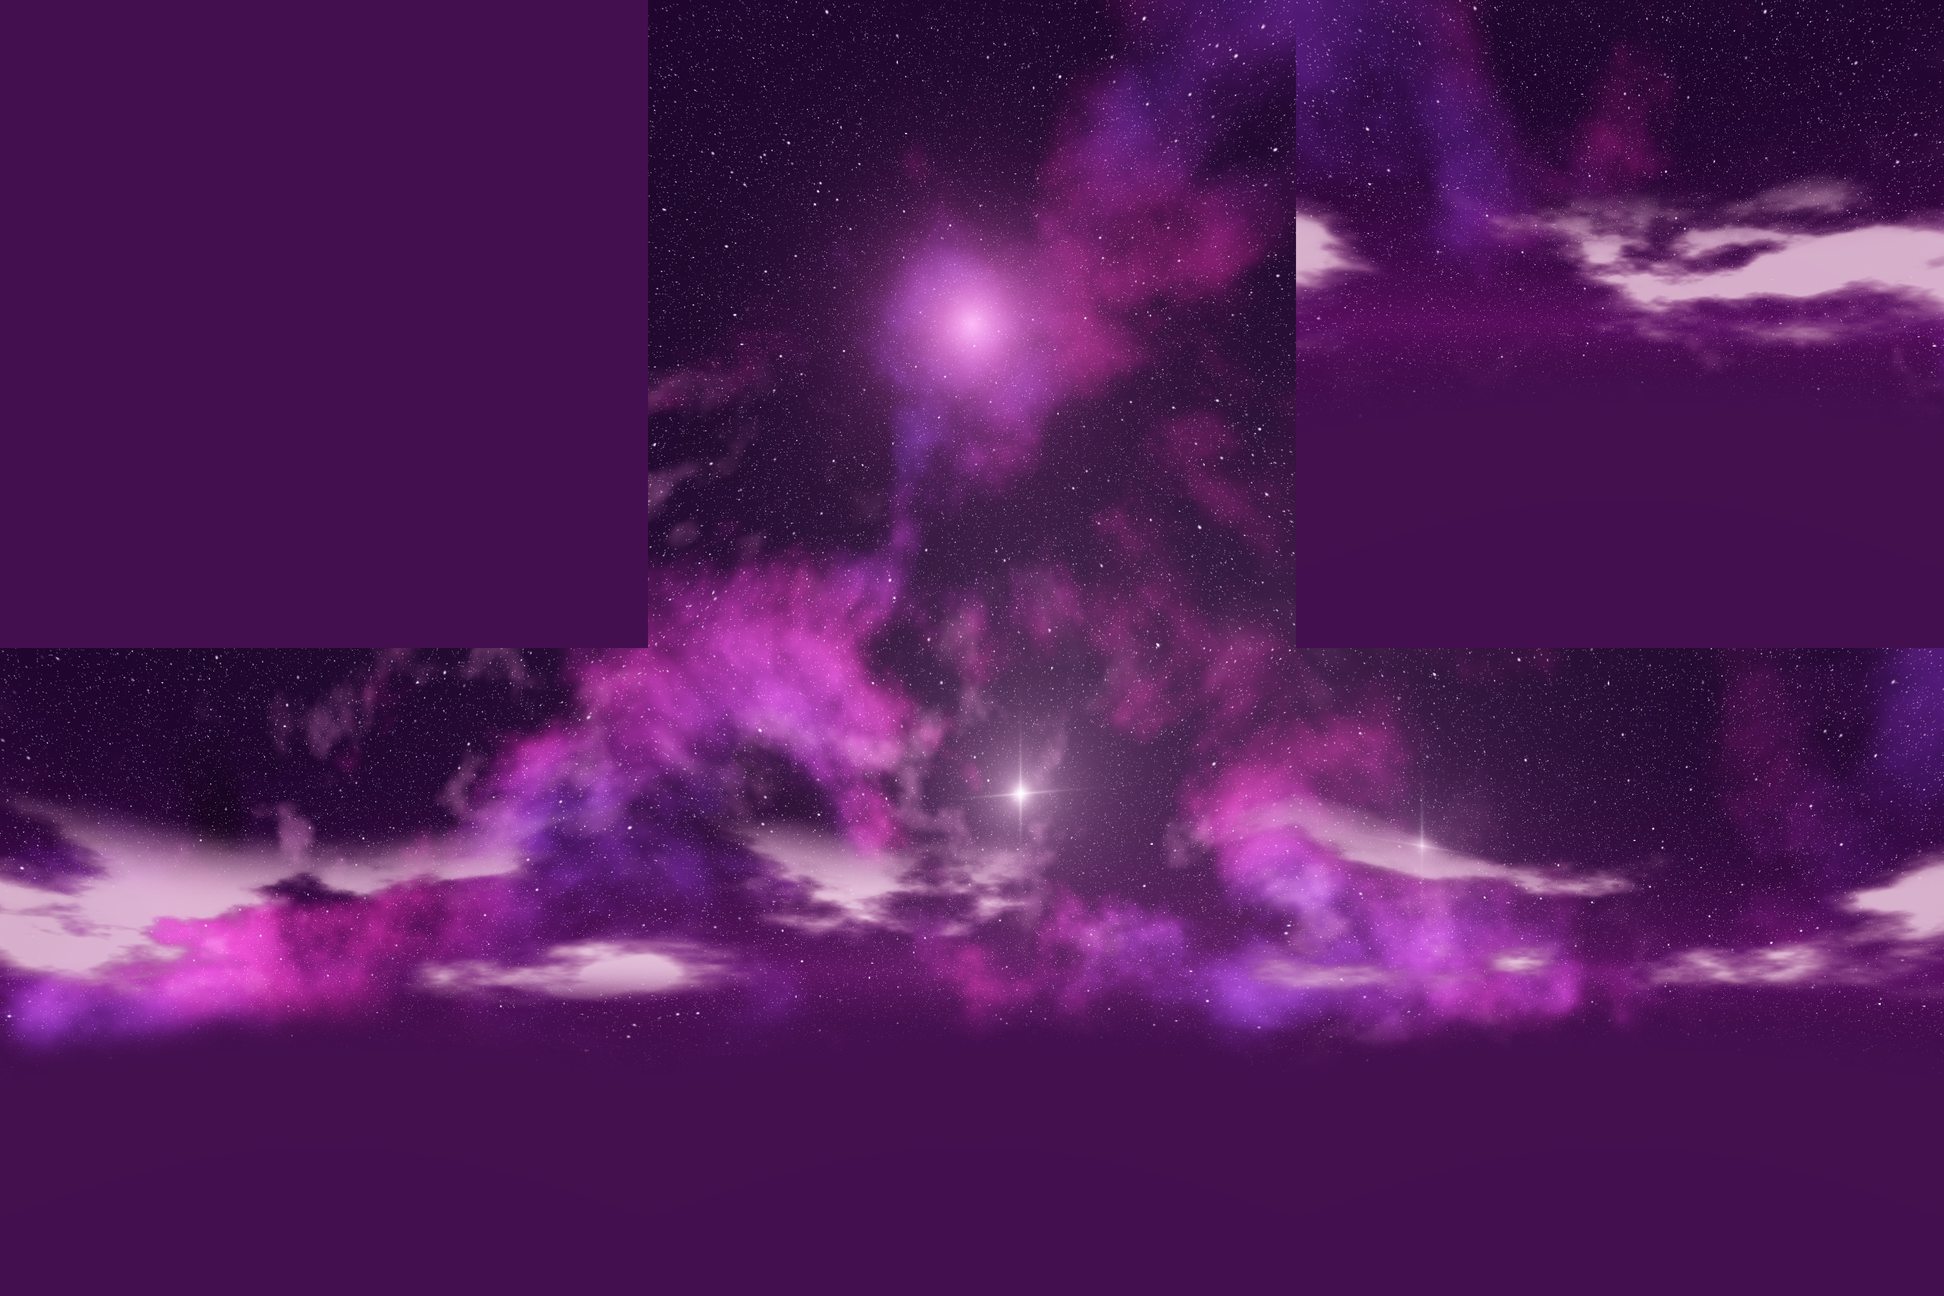
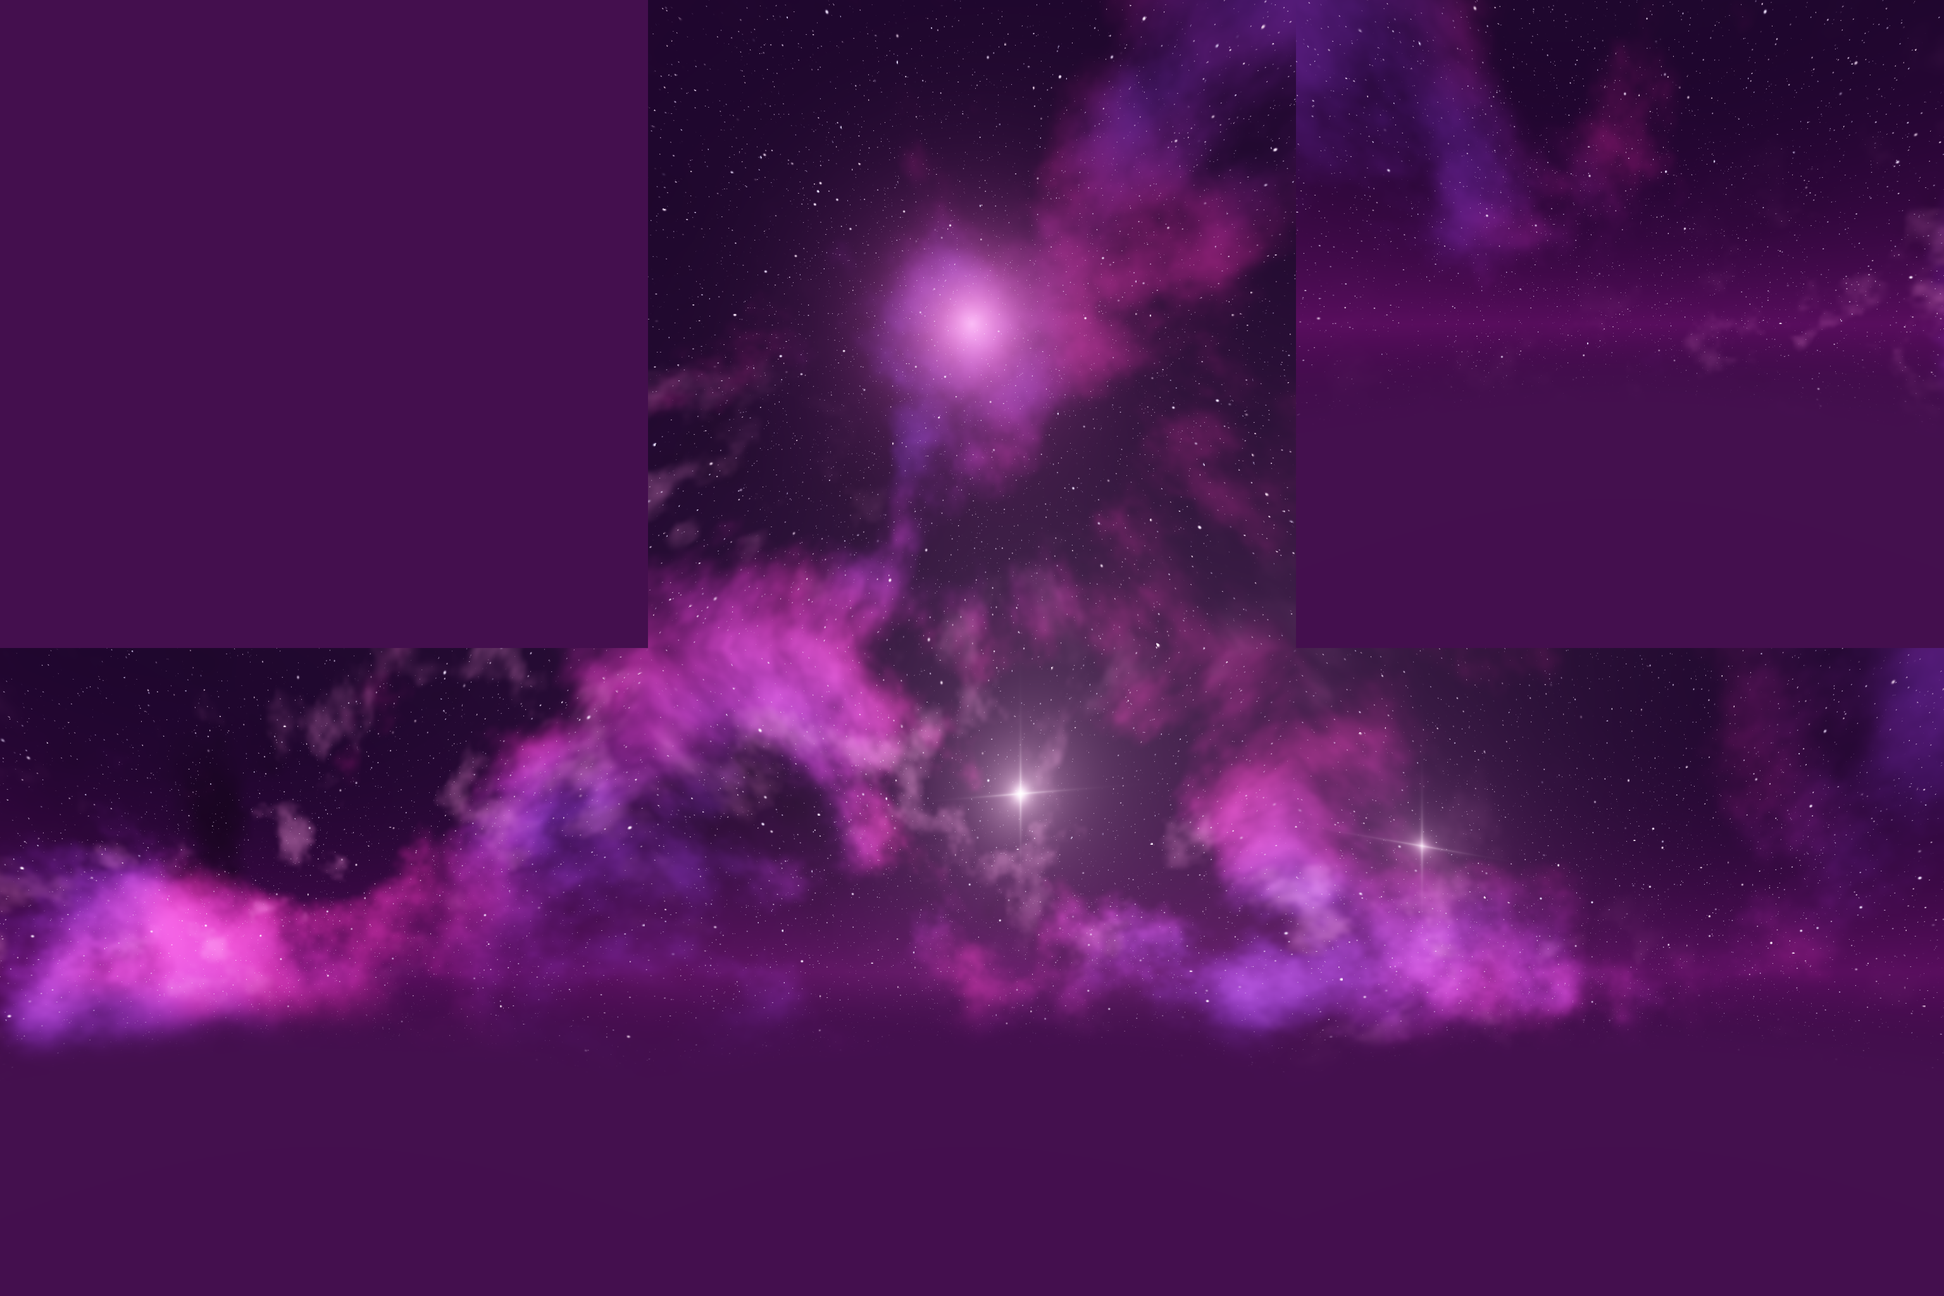
1.3.0: weniger Sterne, keine Wolken im Himmel, Ketten oben ausgeblendet, Einschläge entlang der Kette, weniger Splitter
Claude-Session: https://claude.ai/code/session_01RUNhSQYbMHc2Wc8neaLJos

diff --git a/src/main/java/de/jupp/nuitchains/ChainGeometry.java b/src/main/java/de/jupp/nuitchains/ChainGeometry.java
@@ -18,9 +18,9 @@ import java.util.List;
  */
 public final class ChainGeometry {
 
-    /** Empfängt ein fertiges Viereck: 4 Punkte (x,y,z relativ zur Kamera) und je u,v. */
+    /** Empfängt ein fertiges Viereck: 4 Punkte (x,y,z relativ zur Kamera), je u,v, und eine Deckkraft (0..1). */
     public interface QuadSink {
-        void quad(float[] xyz, float[] uv);
+        void quad(float[] xyz, float[] uv, float alpha);
     }
 
     /** Eine Kette, die in diesem Frame gezeichnet wird. */
@@ -157,6 +157,8 @@ public final class ChainGeometry {
         long seed;
         double sx, sy, sz;
         double glow;
+        boolean hit;      // Einschlag statt Zerfall
+        float alpha;      // oben ausblenden
     }
 
     private Part part(int idx) {
@@ -176,6 +178,7 @@ public final class ChainGeometry {
     public int build(Chain c, double ex, double ey, double ez, double timeSec,
                      QuadSink farSink, QuadSink nearSink, double splitDistance) {
         double split2 = splitDistance * splitDistance;
+        double topFade = Math.max(0.01, s.topFade());
         double pitch = pitch();
         double swing = Math.toRadians(s.swingDegrees());
         double period = (8.0 + c.length() / 25.0) / Math.max(0.05, s.swingSpeed());
@@ -219,6 +222,7 @@ public final class ChainGeometry {
             p.seed = mix(c.hash() + i * 0x9E3779B97F4A7C15L);
 
             double damage = 0;
+            boolean hit = false;
             if (c.broken()) {
                 int fromEnd = nLinks - 1 - i;
                 if (fromEnd < c.brokenLinks()) {
@@ -226,10 +230,16 @@ public final class ChainGeometry {
                     damage = 0.22 + 0.6 * f * f;
                 }
             }
-            if (rnd(p.seed, 1) < dmg.wear()) {
-                damage = Math.max(damage, dmg.wearStrength() * (0.4 + 0.6 * rnd(p.seed, 2)));
+            // Einschläge überall entlang der Kette (nicht im ausgeblendeten oberen Teil)
+            if (damage == 0 && i * pitch > topFade * 0.5 && rnd(p.seed, 1) < dmg.wear()) {
+                damage = dmg.wearStrength() * (0.6 + 0.4 * rnd(p.seed, 2));
+                hit = true;
             }
             p.damage = damage;
+            p.hit = hit;
+            // oben langsam aus dem Nichts einblenden
+            double fromTop = (i + 0.5) * pitch;
+            p.alpha = (float) smooth(0, topFade, fromTop);
         }
 
         // Kristall-Splitter unter einem zerfallenden Ende
@@ -258,6 +268,8 @@ public final class ChainGeometry {
                 p.glow = 0.35 + 0.65 * rnd(fh, 14);
                 p.seed = fh;
                 p.damage = 0;
+                p.hit = false;
+                p.alpha = 1F;
             }
         }
 
@@ -272,7 +284,9 @@ public final class ChainGeometry {
         for (int q = nParts - 1; q >= 0; q--) {
             Part p = this.parts.get((int) (this.partOrder[q] & 0xFFFFFFFFL));
             double d2 = p.cx * p.cx + p.cy * p.cy + p.cz * p.cz;
-            QuadSink sink = d2 < split2 ? nearSink : farSink;
+            if (p.alpha <= 0.004F) continue;
+            // halbtransparente Teile immer im Himmel zeichnen (Welt-Durchgang ist undurchsichtig)
+            QuadSink sink = d2 < split2 && p.alpha >= 0.999F ? nearSink : farSink;
             if (p.shard) {
                 count += emitShard(p, sink);
             } else {
@@ -339,7 +353,7 @@ public final class ChainGeometry {
                 fuv[t * 2] = (float) (0.02 + 0.96 * g);
                 fuv[t * 2 + 1] = v;
             }
-            sink.quad(fxyz, fuv);
+            sink.quad(fxyz, fuv, p.alpha);
             n++;
         }
         return n;
@@ -361,6 +375,7 @@ public final class ChainGeometry {
         final int nq;
         final double r;
         final double halfLen;
+        final double straight, b;
         final double noiseScale;
 
         private final float[] vx, vy, vz, vV, vU;
@@ -375,6 +390,8 @@ public final class ChainGeometry {
             this.halfLen = Math.max(0.1, s.linkLength() * 0.5 - r);
             double b = Math.max(r * 1.15, s.linkWidth() * 0.5 - r);
             double straight = Math.max(0, halfLen - b);
+            this.b = b;
+            this.straight = straight;
             int straightSeg = Math.max(1, arcSegments / 3);
 
             List<double[]> path = new ArrayList<>(); // {u, w, Nu, Nw}
@@ -467,15 +484,29 @@ public final class ChainGeometry {
         }
 
         /** Rauschwert je Ecke (Zerfall) und Verformung – hängt nur vom Glied ab, wird zwischengespeichert. */
-        private float[] noiseFor(long seed) {
-            float[] v = this.noiseCache.get(seed);
+        private float[] noiseFor(long seed, boolean hit) {
+            long key = hit ? seed ^ 0x48495448495448L : seed;
+            float[] v = this.noiseCache.get(key);
             if (v != null) return v;
             if (this.noiseCache.size() > 4096) this.noiseCache.clear();
             v = new float[nv * 2];
             double off = (seed & 255) * 0.37;
+            // Einschlagpunkt auf einer Längsseite (unabhängig von der Detailstufe)
+            double side = rnd(seed, 30) < 0.5 ? -1 : 1;
+            double phi = (rnd(seed, 31) - 0.5) * Math.PI * 1.2;
+            double hu = (rnd(seed, 32) * 2 - 1) * this.straight * 0.8;
+            double hw = side * (this.b + r * Math.cos(phi)), hn = r * Math.sin(phi);
+            double hitR = r * (2.4 + 1.0 * rnd(seed, 33));
             for (int i = 0; i < nv; i++) {
-                // + Neigung: das untere Ende eines Glieds zerfällt zuerst
-                v[i] = (float) (fbm(pu[i] * noiseScale + off, pw[i] * noiseScale, pn[i] * noiseScale, seed) - 0.22 * pu[i] / halfLen);
+                double f = fbm(pu[i] * noiseScale + off, pw[i] * noiseScale, pn[i] * noiseScale, seed);
+                if (hit) {
+                    double du = pu[i] - hu, dw = pw[i] - hw, dn = pn[i] - hn;
+                    double dist = Math.sqrt(du * du + dw * dw + dn * dn) / hitR;
+                    v[i] = (float) (0.6 * Math.min(1, dist) + 0.4 * f);     // Krater um den Einschlag
+                } else {
+                    // Neigung: das untere Ende eines Glieds zerfällt zuerst
+                    v[i] = (float) (f - 0.22 * pu[i] / halfLen);
+                }
                 v[nv + i] = (float) noise(pu[i] * noiseScale * 1.7, pw[i] * noiseScale * 1.7 + off, pn[i] * noiseScale * 1.7, ~seed);
             }
             this.noiseCache.put(seed, v);
@@ -484,7 +515,7 @@ public final class ChainGeometry {
 
         int emit(Part p, QuadSink sink) {
             boolean damaged = p.damage > 0.001;
-            float[] nz = damaged ? noiseFor(p.seed) : null;
+            float[] nz = damaged ? noiseFor(p.seed, p.hit) : null;
             double d = p.damage;
             double melt = damaged ? r * 0.45 * Math.min(1, d * 1.6) : 0;
 
@@ -543,7 +574,7 @@ public final class ChainGeometry {
                     quv[t * 2] = inside ? 0.9F : vU[vi];
                     quv[t * 2 + 1] = inside ? 0.45F : vV[vi];
                 }
-                sink.quad(qxyz, quv);
+                sink.quad(qxyz, quv, p.alpha);
             }
             return visible;
         }

diff --git a/src/main/java/de/jupp/nuitchains/ChainSkybox.java b/src/main/java/de/jupp/nuitchains/ChainSkybox.java
@@ -49,7 +49,7 @@ public class ChainSkybox extends AbstractSkybox implements SkyboxTextureProvider
     private static final RGBA WHITE = new RGBA(1F, 1F, 1F, 1F);
     /** Radius der "Heranzieh"-Kugel im Himmel, muss kleiner als die Nuit-Skybox (100) sein. */
     private static final double SKY_RADIUS = 92.0;
-    private static final int FLOATS_PER_QUAD = 20;
+    private static final int FLOATS_PER_QUAD = 21; // 12 Position + 8 UV + 1 Deckkraft
 
     public static final Codec<ChainSkybox> CODEC = RecordCodecBuilder.create(instance -> instance.group(
             Properties.CODEC.optionalFieldOf("properties", Properties.of()).forGetter(AbstractSkybox::getProperties),
@@ -79,11 +79,12 @@ public class ChainSkybox extends AbstractSkybox implements SkyboxTextureProvider
         int quads;
         float fade;
 
-        void add(float[] xyz, float[] uv) {
+        void add(float[] xyz, float[] uv, float alpha) {
             int o = this.quads * FLOATS_PER_QUAD;
             if (o + FLOATS_PER_QUAD > this.data.length) this.data = Arrays.copyOf(this.data, this.data.length * 2);
             System.arraycopy(xyz, 0, this.data, o, 12);
             System.arraycopy(uv, 0, this.data, o + 12, 8);
+            this.data[o + 20] = alpha;
             this.quads++;
         }
     }
@@ -154,10 +155,11 @@ public class ChainSkybox extends AbstractSkybox implements SkyboxTextureProvider
         float[] data = new float[FLOATS_PER_QUAD * 512];
         int size;
 
-        void addQuad(float[] xyz, float[] uv) {
+        void addQuad(float[] xyz, float[] uv, float alpha) {
             if (this.size + FLOATS_PER_QUAD > this.data.length) this.data = Arrays.copyOf(this.data, this.data.length * 2);
             System.arraycopy(xyz, 0, this.data, this.size, 12);
             System.arraycopy(uv, 0, this.data, this.size + 12, 8);
+            this.data[this.size + 20] = alpha;
             this.size += FLOATS_PER_QUAD;
         }
     }
@@ -203,32 +205,50 @@ public class ChainSkybox extends AbstractSkybox implements SkyboxTextureProvider
         RenderPipeline pipeline = NuitRenderPipelines.texturedSkybox(Blend.normal().getBlendFunction());
 
         for (FarChain chain : this.farChains) {
-            if (chain.quads == 0) {
-                continue;
-            }
-            try (ByteBufferBuilder byteBufferBuilder = NuitRenderPipelines.byteBufferBuilder(pipeline, chain.quads * 4)) {
-                BufferBuilder builder = NuitRenderPipelines.bufferBuilder(byteBufferBuilder, pipeline);
-                float[] d = chain.data;
-                for (int q = 0; q < chain.quads; q++) {
-                    int o = q * FLOATS_PER_QUAD;
-                    for (int v = 0; v < 4; v++) {
-                        double x = d[o + v * 3], y = d[o + v * 3 + 1], z = d[o + v * 3 + 2];
-                        double dist = Math.sqrt(x * x + y * y + z * z);
-                        double sc = dist > SKY_RADIUS ? SKY_RADIUS / dist : 1.0; // Richtung bleibt gleich
-                        builder.addVertex((float) (x * sc), (float) (y * sc), (float) (z * sc))
-                                .setUv(d[o + 12 + v * 2], d[o + 13 + v * 2]);
-                    }
+            // aufeinanderfolgende Vierecke mit gleicher Deckkraft-Stufe in einem Aufruf zeichnen
+            int q = 0;
+            while (q < chain.quads) {
+                int level = alphaLevel(chain.data[q * FLOATS_PER_QUAD + 20]);
+                int end = q + 1;
+                while (end < chain.quads && alphaLevel(chain.data[end * FLOATS_PER_QUAD + 20]) == level) end++;
+                float alphaMul = level / (float) ALPHA_LEVELS;
+                if (alphaMul > 0) {
+                    drawFar(pipeline, modelView, chain, q, end, chain.fade * alphaMul);
                 }
-                MeshData mesh = builder.build();
-                if (mesh == null) {
-                    continue;
-                }
-                Vector4f color = new Vector4f(
-                        this.tint.getRed(), this.tint.getGreen(), this.tint.getBlue(),
-                        this.tint.getAlpha() * this.alpha * chain.fade);
-                GpuBufferSlice transforms = NuitRenderBackend.createDynamicTransforms(modelView, color);
-                NuitRenderBackend.drawTextured(pipeline, mesh, transforms, NuitRenderBackend.SAMPLER0_NAME, this.texture);
+                q = end;
             }
+        }
+    }
+
+    private static final int ALPHA_LEVELS = 24;
+
+    private static int alphaLevel(float alpha) {
+        return Math.round(Math.max(0F, Math.min(1F, alpha)) * ALPHA_LEVELS);
+    }
+
+    private void drawFar(RenderPipeline pipeline, Matrix4f modelView, FarChain chain, int from, int to, float alpha) {
+        try (ByteBufferBuilder byteBufferBuilder = NuitRenderPipelines.byteBufferBuilder(pipeline, (to - from) * 4)) {
+            BufferBuilder builder = NuitRenderPipelines.bufferBuilder(byteBufferBuilder, pipeline);
+            float[] d = chain.data;
+            for (int q = from; q < to; q++) {
+                int o = q * FLOATS_PER_QUAD;
+                for (int v = 0; v < 4; v++) {
+                    double x = d[o + v * 3], y = d[o + v * 3 + 1], z = d[o + v * 3 + 2];
+                    double dist = Math.sqrt(x * x + y * y + z * z);
+                    double sc = dist > SKY_RADIUS ? SKY_RADIUS / dist : 1.0; // Richtung bleibt gleich
+                    builder.addVertex((float) (x * sc), (float) (y * sc), (float) (z * sc))
+                            .setUv(d[o + 12 + v * 2], d[o + 13 + v * 2]);
+                }
+            }
+            MeshData mesh = builder.build();
+            if (mesh == null) {
+                return;
+            }
+            Vector4f color = new Vector4f(
+                    this.tint.getRed(), this.tint.getGreen(), this.tint.getBlue(),
+                    this.tint.getAlpha() * this.alpha * alpha);
+            GpuBufferSlice transforms = NuitRenderBackend.createDynamicTransforms(modelView, color);
+            NuitRenderBackend.drawTextured(pipeline, mesh, transforms, NuitRenderBackend.SAMPLER0_NAME, this.texture);
         }
     }
 

diff --git a/src/main/java/de/jupp/nuitchains/ChainSettings.java b/src/main/java/de/jupp/nuitchains/ChainSettings.java
@@ -18,6 +18,7 @@ import com.mojang.serialization.codecs.RecordCodecBuilder;
  * @param thickness     Dicke des Metalls (Radius) in Blöcken
  * @param lean          Maximale Schräglage einer Kette in Grad (jede Kette zufällig)
  * @param spikes        Dornen pro Seite eines Glieds (0 = glatte Kette)
+ * @param topFade       Über wie viele Blöcke die Kette oben aus dem Nichts eingeblendet wird
  * @param swingDegrees  Wie weit die Kette pendelt (Grad)
  * @param swingSpeed    Tempo-Faktor fürs Pendeln (1 = normal)
  * @param wave          Wie stark sich die Kette beim Pendeln biegt (0 = starr)
@@ -25,12 +26,12 @@ import com.mojang.serialization.codecs.RecordCodecBuilder;
  */
 public record ChainSettings(int spacing, float chance, int cellRadius, float topY,
                             float minLength, float maxLength, float linkLength, float linkWidth,
-                            float thickness, float lean, int spikes, float swingDegrees, float swingSpeed, float wave, int seed) {
+                            float thickness, float lean, int spikes, float topFade, float swingDegrees, float swingSpeed, float wave, int seed) {
 
     public static final ChainSettings DEFAULT = new ChainSettings(
             220, 0.55F, 2, 420F,
             150F, 280F, 11.0F, 7.0F,
-            1.45F, 14F, 2, 3.0F, 1.0F, 0.6F, 2424);
+            1.45F, 14F, 2, 90F, 3.0F, 1.0F, 0.6F, 2424);
 
     public static final Codec<ChainSettings> CODEC = RecordCodecBuilder.create(i -> i.group(
             Codec.intRange(16, 4096).optionalFieldOf("spacing", DEFAULT.spacing()).forGetter(ChainSettings::spacing),
@@ -44,6 +45,7 @@ public record ChainSettings(int spacing, float chance, int cellRadius, float top
             Codec.floatRange(0.02F, 32F).optionalFieldOf("thickness", DEFAULT.thickness()).forGetter(ChainSettings::thickness),
             Codec.floatRange(0F, 60F).optionalFieldOf("lean", DEFAULT.lean()).forGetter(ChainSettings::lean),
             Codec.intRange(0, 4).optionalFieldOf("spikes", DEFAULT.spikes()).forGetter(ChainSettings::spikes),
+            Codec.floatRange(0F, 2000F).optionalFieldOf("topFade", DEFAULT.topFade()).forGetter(ChainSettings::topFade),
             Codec.floatRange(0F, 45F).optionalFieldOf("swingDegrees", DEFAULT.swingDegrees()).forGetter(ChainSettings::swingDegrees),
             Codec.floatRange(0F, 20F).optionalFieldOf("swingSpeed", DEFAULT.swingSpeed()).forGetter(ChainSettings::swingSpeed),
             Codec.floatRange(0F, 5F).optionalFieldOf("wave", DEFAULT.wave()).forGetter(ChainSettings::wave),

diff --git a/src/main/java/de/jupp/nuitchains/DamageSettings.java b/src/main/java/de/jupp/nuitchains/DamageSettings.java
@@ -8,15 +8,15 @@ import com.mojang.serialization.codecs.RecordCodecBuilder;
  *
  * @param brokenChance  Anteil der Ketten, deren Ende zerfällt (0–1)
  * @param brokenLinks   Über wie viele Glieder sich der Zerfall am Ende erstreckt
- * @param wear          Anteil der Glieder mit Löchern/Abplatzern mitten in der Kette (0–1)
- * @param wearStrength  Wie groß diese Löcher werden (0–1)
+ * @param wear          Anteil der Glieder mit Einschlägen entlang der ganzen Kette (0–1)
+ * @param wearStrength  Wie groß diese Einschläge werden (0–1)
  * @param fragments     Anzahl Bruchstücke, die unter einer zerfallenden Kette schweben
  * @param fragmentFall  Wie weit die Bruchstücke nach unten treiben, bevor sie verschwinden (Blöcke)
  */
 public record DamageSettings(float brokenChance, int brokenLinks, float wear, float wearStrength,
                              int fragments, float fragmentFall) {
 
-    public static final DamageSettings DEFAULT = new DamageSettings(0.7F, 4, 0.06F, 0.3F, 18, 40F);
+    public static final DamageSettings DEFAULT = new DamageSettings(0.7F, 4, 0.12F, 0.6F, 6, 40F);
 
     public static final Codec<DamageSettings> CODEC = RecordCodecBuilder.create(i -> i.group(
             Codec.floatRange(0F, 1F).optionalFieldOf("brokenChance", DEFAULT.brokenChance()).forGetter(DamageSettings::brokenChance),

diff --git a/README.md b/README.md
@@ -38,11 +38,12 @@ Wichtige Werte in `02_chains.json` → `chains`:
 | `linkLength` / `linkWidth` / `thickness` | Größe der Glieder | 11 / 7 / 1.45 |
 | `spikes` | Dornen pro Seite eines Glieds (0 = glatt) | 2 |
 | `lean` | Maximale Schräglage einer Kette (Grad) | 14 |
+| `topFade` | Über wie viele Blöcke die Kette oben aus dem Nichts eingeblendet wird | 90 |
 | `swingDegrees` / `swingSpeed` | Pendel-Ausschlag und Tempo | 3 / 1 |
 | `wave` | Wie stark sich die Kette beim Pendeln biegt | 0.6 |
 | `seed` | Andere Zahl = andere Verteilung | 2424 |
 
-Unter `damage`: `brokenChance` (Anteil zerfallender Ketten), `brokenLinks` (wie viele Glieder am Ende zerfallen), `wear` / `wearStrength` (kleine Schäden mitten in der Kette), `fragments` / `fragmentFall` (Kristall-Splitter unter dem Ende).
+Unter `damage`: `brokenChance` (Anteil zerfallender Ketten), `brokenLinks` (wie viele Glieder am Ende zerfallen), `wear` / `wearStrength` (Anteil und Größe der Einschläge entlang der ganzen Kette), `fragments` / `fragmentFall` (Kristall-Splitter unter dem Ende).
 
 Weitere Schalter: `hideClouds` (Vanilla-Wolken aus, Standard `true`), `nearDistance` (bis zu dieser Entfernung sind Ketten echte 3D-Objekte in der Welt, Standard 220).
 
